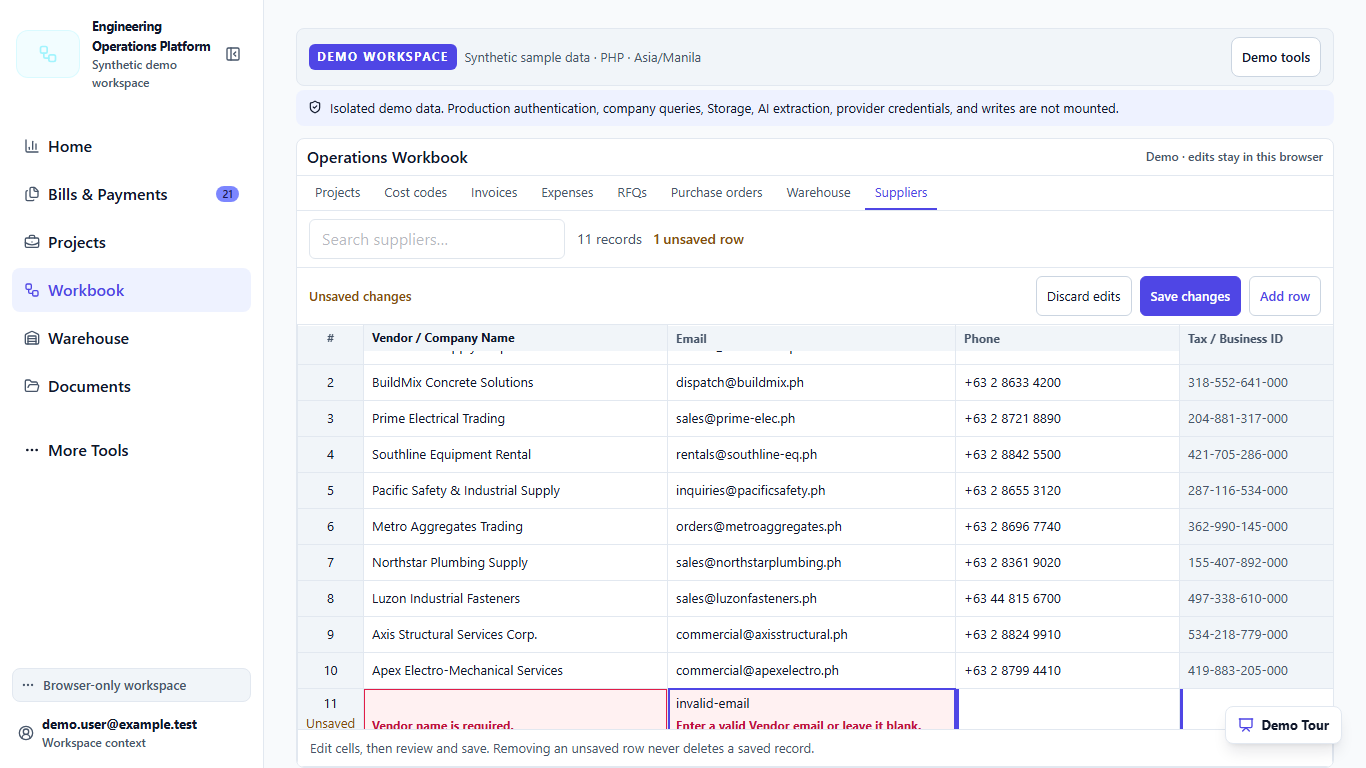
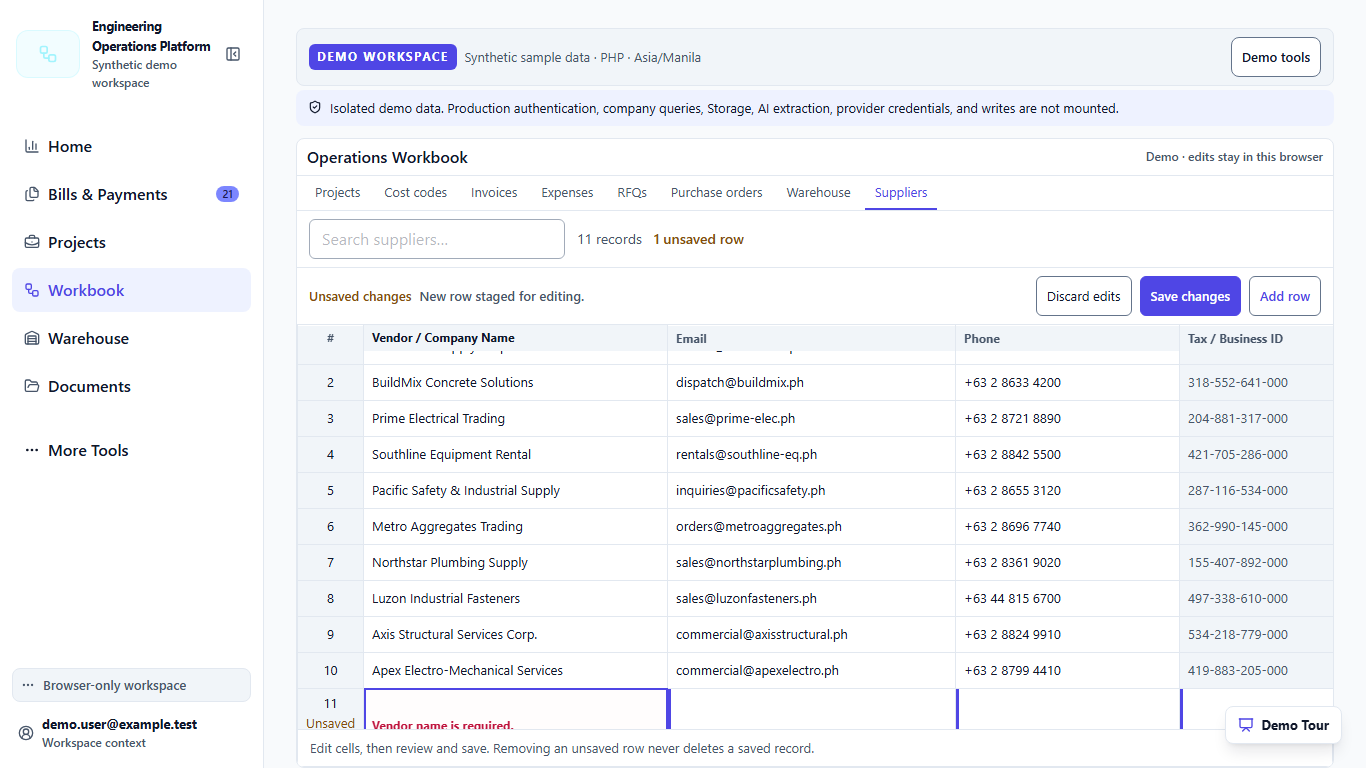
Refresh final reviewed screenshots and record browser CI repairs

Changed region(s): [[0.4919, 0.9062, 0.6764, 0.9688], [0.3075, 0.375, 0.4305, 0.4062], [0.2767, 0.9375, 0.369, 0.9688]]

diff --git a/docs/UX-RESET-2-EVIDENCE.md b/docs/UX-RESET-2-EVIDENCE.md
@@ -119,12 +119,23 @@ stops at one open PR; Codex does not merge it or begin another product phase.
   fixed with deliberate cell scrolling. Light/dark focused inputs now sit wholly
   inside the worksheet scroll frame (top 698.59, bottom 718.59, frame bottom
   728.75 at 1366x768). Post-correction editor/creation regressions: **40/40**.
-- The full matrix predates only that final focus-scroll line. Its manifest keeps
-  the captured base SHA and runtime diff hash; the two replacement laptop focus
-  captures are separately identified at the application-bearing commit. Unchanged
-  static screen captures were retained rather than recreated after documentation.
-- Curated evidence: [screenshot manifest](evidence/ux-reset-2/manifest.json),
-  20 representative screenshots; the other run output remains ignored locally.
+- Initial full functional matrix and 759-test affected selection precede the final
+  visual/CI follow-ups. The final Workbook browser scenarios pass **16/16** with
+  reviewed saves and rejected discard prompts; focused dark scenarios pass
+  **4/4**. Browser harness regression checks pass **47/47** and final editor/
+  creation/theme checks pass **45/45**. Protected CI supplies final-head build,
+  typecheck, affected selection and browser proof.
+- CI exposed obsolete five-sheet/save expectations and contrast requirements.
+  Scenarios now test eight authorized sheets, actual review confirmation, retained
+  failed/discarded changes and authorized Supplier Payables export. Light controls
+  retain the established accessible border; dark sidebar active labels use
+  brighter text against indigo. Cost Codes show their protected budget currency.
+- Documents search has 8px clearance between icon and text in both themes.
+- Curated [screenshot manifest](evidence/ux-reset-2/manifest.json): **21** actual
+  app captures refreshed at final application commit
+  `0530b4d687f1c8ec5547810b991cdc59336082b3`, including light/dark Workbook and
+  Documents. Earlier transient matrix output stays ignored locally.
 - Exact final PR head and protected CI are recorded in the PR. No merge,
   authenticated hosted write, provider certification or production deployment is
   claimed by this local evidence.
+- Final closeout theme/creation/browser-harness regressions: **59/59**.
